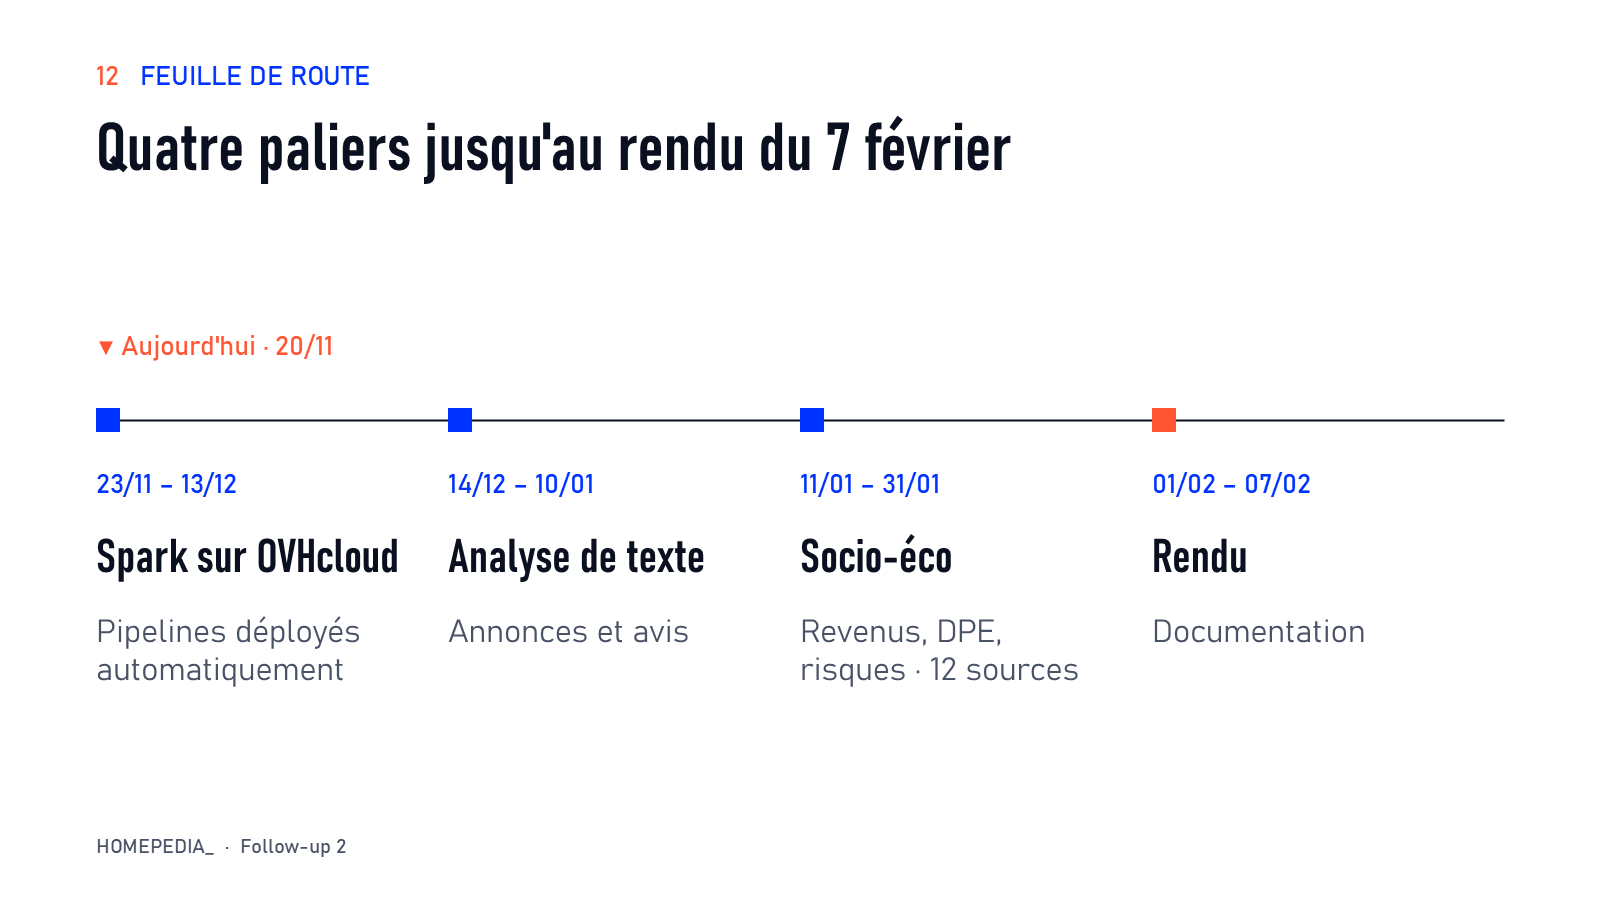
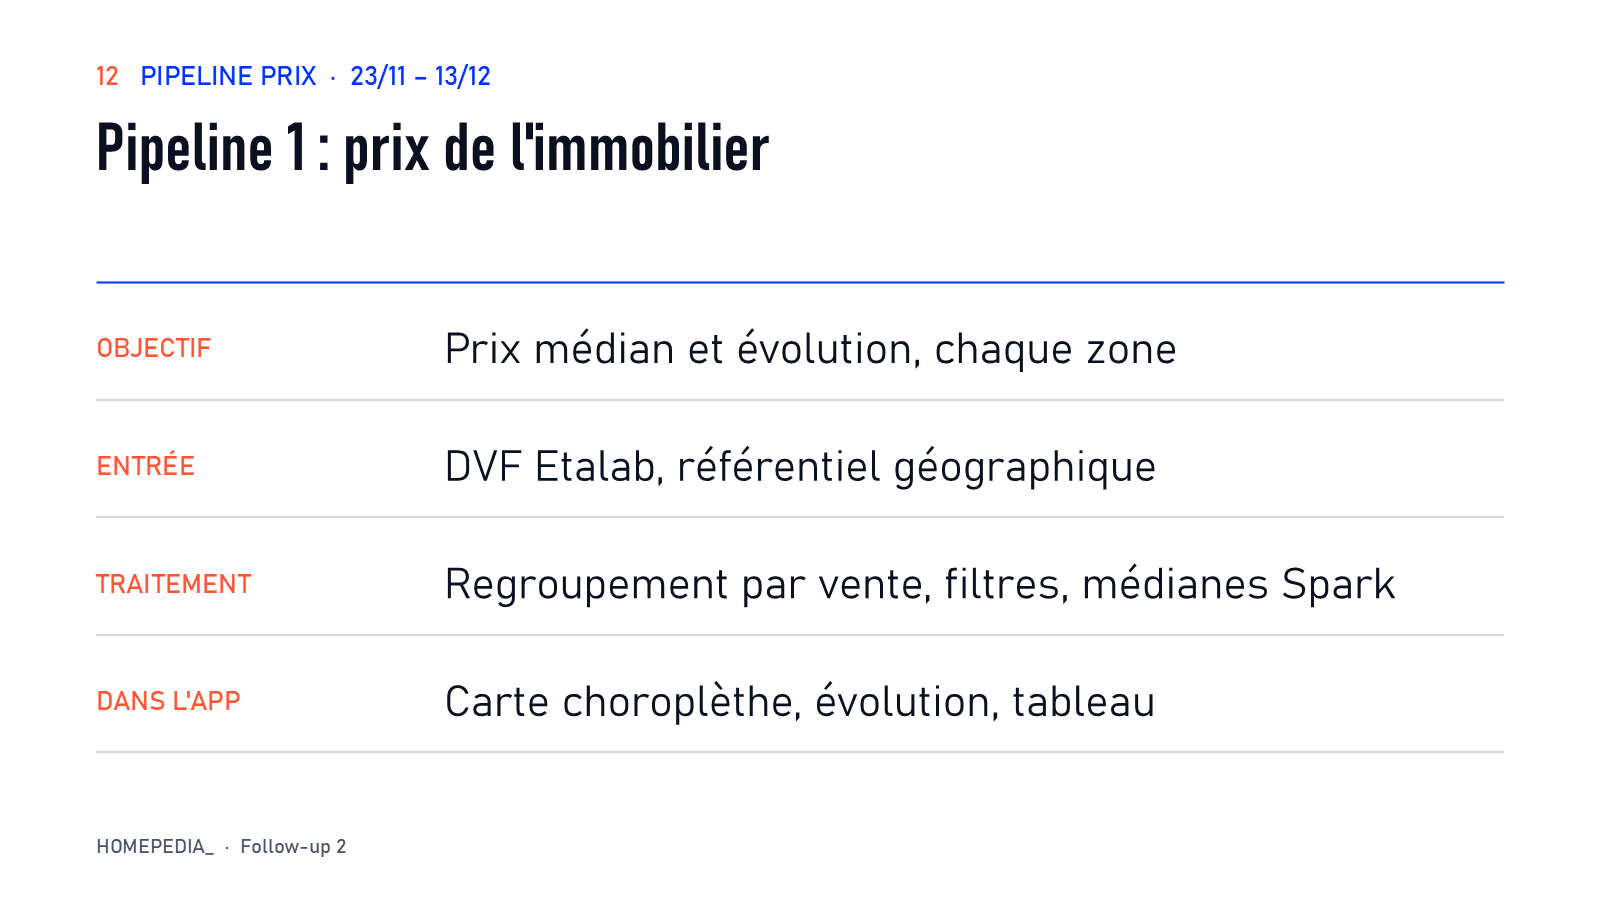
docs(followup2): 3 slides pipelines cloud (prix, texte, socio-eco) avant la feuille de route

diff --git a/docs/followup2/build_deck.py b/docs/followup2/build_deck.py
@@ -536,13 +536,97 @@ Contrôle prévu : la même vérification qu'aujourd'hui, médiane Spark = recal
 C'est la priorité du prochain palier : prendre en main la plateforme et automatiser le déploiement des pipelines
 (ingestion, nettoyage, calcul Spark, contrôles). Ensuite, intégrer une nouvelle source ou un nouveau calcul revient
 à ajouter un job, déployé et contrôlé de la même façon — c'est ce qui rend les paliers suivants rapides.
+Les 3 slides suivantes détaillent les pipelines qui tourneront sur la plateforme : prix, texte, socio-éco.
+Chacun suit la même chaîne automatisée : ingestion → nettoyage → calcul Spark → contrôles PASS/FAIL → tables lues par l'app.
 """)
 
 
-def s12_feuille_de_route(prs):
+def fiche_pipeline(prs, numero, rubrique_libelle, titre, lignes, contenu_notes):
+    """Fiche d'un pipeline : 4 lignes Objectif / Entrée / Traitement / Dans l'app, séparées par des filets."""
     s = prs.slides.add_slide(prs.slide_layouts[6])
     fond(s, BLANC)
-    entete(s, 12, "Feuille de route", "Quatre paliers jusqu'au rendu du 7 février")
+    entete(s, numero, rubrique_libelle, titre)
+    y0, h = Inches(2.35), Inches(0.98)
+    x_lib, x_val = MARGE, MARGE + Inches(2.9)
+    for i, (libelle, valeur) in enumerate(lignes):
+        y = y0 + i * h
+        trait(s, MARGE, y, L - MARGE, y, couleur=BLEU if i == 0 else FILET, epaisseur=1.5 if i == 0 else 1.0)
+        texte(s, x_lib, y + Inches(0.42), Inches(2.7), Inches(0.4), libelle, taille=16, couleur=ORANGE)
+        texte(s, x_val, y + Inches(0.2), L - MARGE - x_val, Inches(0.7), valeur, taille=26, police=LEGER,
+              couleur=ENCRE, ancre=MSO_ANCHOR.MIDDLE)
+    trait(s, MARGE, y0 + 4 * h, L - MARGE, y0 + 4 * h)
+    notes(s, contenu_notes)
+
+
+ETAPES_PIPELINE = ("OBJECTIF", "ENTRÉE", "TRAITEMENT", "DANS L'APP")
+
+
+def s12_pipeline_prix(prs):
+    fiche_pipeline(prs, 12, "Pipeline prix  ·  23/11 – 13/12", "Pipeline 1 : prix de l'immobilier", list(zip(ETAPES_PIPELINE, [
+        "Prix médian et évolution, chaque zone",
+        "DVF Etalab, référentiel géographique",
+        "Regroupement par vente, filtres, médianes Spark",
+        "Carte choroplèthe, évolution, tableau",
+    ])), f"""
+Premier pipeline porté sur la plateforme : il tourne déjà en local, on l'industrialise.
+- Objectif : le prix médian au m² et son évolution, pour chaque commune, département et région, par type de bien et par année.
+- Entrée : DVF géolocalisées d'Etalab ({PERIODE}, {n(F['dvf_lignes_csv'])} lignes) et le référentiel geo.api.gouv.fr (communes, contours).
+- Traitement : regroupement des lignes par vente ({n(F['dvf_mutations'])} ventes), marquage des ventes douteuses et hors marché,
+  filtre des ventes de marché d'un seul logement (200 à {n(30000)} €/m²), médiane Spark par zone, type et année
+  → {n(F['indicateurs_lignes'])} indicateurs ; contrôle : médiane Spark = recalcul SQL, ligne par ligne.
+- Dans l'app : carte choroplèthe du prix, carte divergente de l'évolution entre deux années, infobulle avec la série,
+  tableau triable et exportable.
+Sur le cloud : DVF est republié deux fois par an (avril, octobre) ; le pipeline recharge l'année et recalcule sans intervention.
+""")
+
+
+def s13_pipeline_texte(prs):
+    fiche_pipeline(prs, 13, "Pipeline texte  ·  14/12 – 10/01", "Pipeline 2 : analyse de texte", list(zip(ETAPES_PIPELINE, [
+        "Qualifier les logements et les quartiers",
+        "Annonces Orpi, source d'avis",
+        "Caractéristiques extraites, sentiment, par commune",
+        "Couche carte, fiche territoire",
+    ])), f"""
+Le sujet exige une source textuelle traitée, pas une liste de commentaires (l'exemple des « rats » dans les avis).
+- Objectif : décrire l'état des logements et la perception des quartiers, commune par commune.
+- Entrée : les {F['annonces']} annonces Orpi déjà en base (description en texte libre, dans MongoDB), puis une source d'avis
+  réels, choisie en vérifiant ses conditions d'utilisation comme pour Orpi.
+- Traitement (ADR-042, deux branches) :
+  1. caractéristiques extraites des annonces : « travaux », « rénovation », « balcon »… (la recherche plein texte
+     trouve déjà {F['annonces_texte_balcon']} annonces avec « balcon ») ;
+  2. sentiment calculé sur les avis, avec un modèle de langue français pré-entraîné, choisi et documenté comme le demande le sujet.
+  Les descriptions d'annonces ne servent pas au sentiment : c'est du texte publicitaire, positif par construction.
+  Résultat par document dans MongoDB, agrégats par commune dans PostgreSQL (même clé INSEE).
+- Dans l'app : couches de la carte (part d'annonces « à rénover », sentiment moyen), et la fiche territoire
+  (thèmes les plus cités, extraits).
+""")
+
+
+def s14_pipeline_socio(prs):
+    fiche_pipeline(prs, 14, "Pipeline socio-éco  ·  11/01 – 31/01", "Pipeline 3 : socio-éco et risques", list(zip(ETAPES_PIPELINE, [
+        "Franchises et inégalités",
+        f"Revenus, population, DPE, argiles, +{F['sources_restantes']} sources",
+        "Jointure INSEE, écarts, score pondéré",
+        "Comparateur, scoring, couches carte",
+    ])), f"""
+Le pipeline qui sert directement les deux questions métier (slide 7).
+- Objectif : « Où ouvrir les 10 prochaines franchises ? » et « Comment réduire les inégalités dans mon département ? ».
+- Entrée : {F['sources_palier1']} sources open data (revenus INSEE Filosofi, population INSEE, diagnostics énergétiques ADEME,
+  risque retrait-gonflement des argiles Géorisques) et {F['sources_restantes']} autres pour atteindre {F['sources_visees']} : établissements scolaires,
+  gares, chômage localisé, Base Adresse Nationale, source d'avis.
+- Traitement : standardisation sur le code INSEE (communes fusionnées comprises), jointure avec les prix,
+  indicateurs par zone (revenu médian, part de logements mal classés au DPE, exposition aux argiles),
+  écarts entre communes d'un même département pour les inégalités, score multi-critères normalisé
+  dont l'utilisateur règle les poids pour les franchises.
+- Dans l'app : chaque indicateur devient une couche de la carte ; le comparateur met des zones côte à côte ;
+  le scoring classe les zones selon les poids choisis ; tableau croisé, filtrable et exportable aux {F['echelles']} échelles.
+""")
+
+
+def s15_feuille_de_route(prs):
+    s = prs.slides.add_slide(prs.slide_layouts[6])
+    fond(s, BLANC)
+    entete(s, 15, "Feuille de route", "Quatre paliers jusqu'au rendu du 7 février")
     paliers = [
         ("23/11 – 13/12", "Spark sur OVHcloud", "Pipelines déployés automatiquement"),
         ("14/12 – 10/01", "Analyse de texte", "Annonces et avis"),
@@ -563,14 +647,15 @@ def s12_feuille_de_route(prs):
     notes(s, f"""
 Nous sommes au début du premier palier. Chaque palier ajoute une brique sur le socle existant, sans rien
 reconstruire : même clé (code INSEE), mêmes bases, même mécanisme de contrôles PASS/FAIL.
-1. 23/11 – 13/12 : priorité à la plateforme. Spark sur OVHcloud Data Platform (slide précédente) et déploiement
+1. 23/11 – 13/12 : priorité à la plateforme. Spark sur OVHcloud Data Platform (slide 11) et déploiement
    automatisé des pipelines de données : ingestion, nettoyage, calcul, contrôles. C'est l'investissement qui rend
    les paliers suivants rapides — une nouvelle donnée ou un nouveau calcul devient un job de plus.
-2. 14/12 – 10/01 : analyse de texte. Caractéristiques extraites des annonces (« travaux », « rénovation »…) et
+   Le pipeline prix (slide 12), qui tourne déjà en local, est le premier porté.
+2. 14/12 – 10/01 : analyse de texte (pipeline de la slide 13). Caractéristiques extraites des annonces (« travaux », « rénovation »…) et
    sentiment calculé sur une source d'avis, agrégés par commune ; méthode et modèle documentés comme l'exige le sujet.
 3. 11/01 – 31/01 : {F['sources_palier1']} sources socio-économiques et risques (revenus INSEE Filosofi, population, DPE ADEME,
    retrait-gonflement des argiles) et {F['sources_restantes']} autres pour atteindre {F['sources_visees']}, intégrées par les pipelines du
-   palier 1 ; pages Fiche territoire et Comparateur (slide 7).
+   palier 1 (pipeline de la slide 14) ; pages Fiche territoire et Comparateur (slide 7).
 4. 01/02 – 07/02 : gel des fonctionnalités, documentation (schéma, méthodologie de nettoyage, IA), répétition.
 Merci — questions ?
 """)
@@ -580,7 +665,8 @@ def main():
     prs = Presentation()
     prs.slide_width, prs.slide_height = L, H
     for f in (s01_titre, s02_etapes, s03_sources, s04_bases, s05_nettoyage, s06_spark, s07_application, s08_demo,
-              s09_evolution, s10_controles, s11_cloud, s12_feuille_de_route):
+              s09_evolution, s10_controles, s11_cloud, s12_pipeline_prix, s13_pipeline_texte, s14_pipeline_socio,
+              s15_feuille_de_route):
         f(prs)
     prs.save(SORTIE)
     print(f"-> {SORTIE.name} ({len(prs.slides)} slides)")

diff --git a/docs/followup2/verif_deck.py b/docs/followup2/verif_deck.py
@@ -3,7 +3,7 @@ Follow-up 2 — contrôle PASS/FAIL du deck, sans relecture humaine.
 
 - chaque nombre visible ET dans les notes existe dans faits.json (hors dates et constantes de méthode) ;
 - au plus 30 mots de contenu par slide (navigation exclue : rubrique, pied, index 01-04 ; dates exclues) ;
-- notes speaker non vides ; aucune forme à coins arrondis ; entre 8 et 12 slides ;
+- notes speaker non vides ; aucune forme à coins arrondis ; entre 8 et 15 slides ;
 - aucune forme ne dépasse de la slide.
 
 Usage : docs/followup2/.venv/Scripts/python docs/followup2/verif_deck.py
@@ -24,7 +24,7 @@ FAITS = json.loads((ICI / "faits.json").read_text(encoding="utf-8"))
 MOTS_MAX = 30
 # Nombres légitimes qui ne sont pas des faits de la base : numéros de slide, constantes de méthode
 # (bornes 200-30 000 €/m² du job Spark, horizon de 15 ans cité par le sujet), port de l'app, identifiants.
-CONSTANTES = {200, 30000, 15, 901, 2026, 2027, 8501} | set(range(1, 13))
+CONSTANTES = {200, 30000, 15, 901, 2026, 2027, 8501} | set(range(1, 16))
 MOIS = r"(janvier|février|mars|avril|mai|juin|juillet|août|septembre|octobre|novembre|décembre)"
 DATE = re.compile(r"\b\d{1,2}/\d{1,2}\b")
 NOMBRE = re.compile(r"\d+(?:[  ]\d{3})*(?:,\d+)?")  # milliers : espace fine insécable, cf. n()
@@ -58,7 +58,7 @@ def main():
     prs = Presentation(DECK)
     # Valeur absolue : une variation « −7,3 % » est lue 7,3 (le signe est typographique, pas dans le nombre)
     valeurs = {abs(float(v)) for v in FAITS.values()} | {float(c) for c in CONSTANTES}
-    controle(8 <= len(prs.slides) <= 12, f"nombre de slides : {len(prs.slides)} (attendu 8-12)")
+    controle(8 <= len(prs.slides) <= 15, f"nombre de slides : {len(prs.slides)} (attendu 8-15)")
     for i, slide in enumerate(prs.slides, 1):
         note = slide.notes_slide.notes_text_frame.text if slide.has_notes_slide else ""
         mots = len(MOT.findall(DATE.sub(" ", "\n".join(textes(slide, chrome=False)))))
